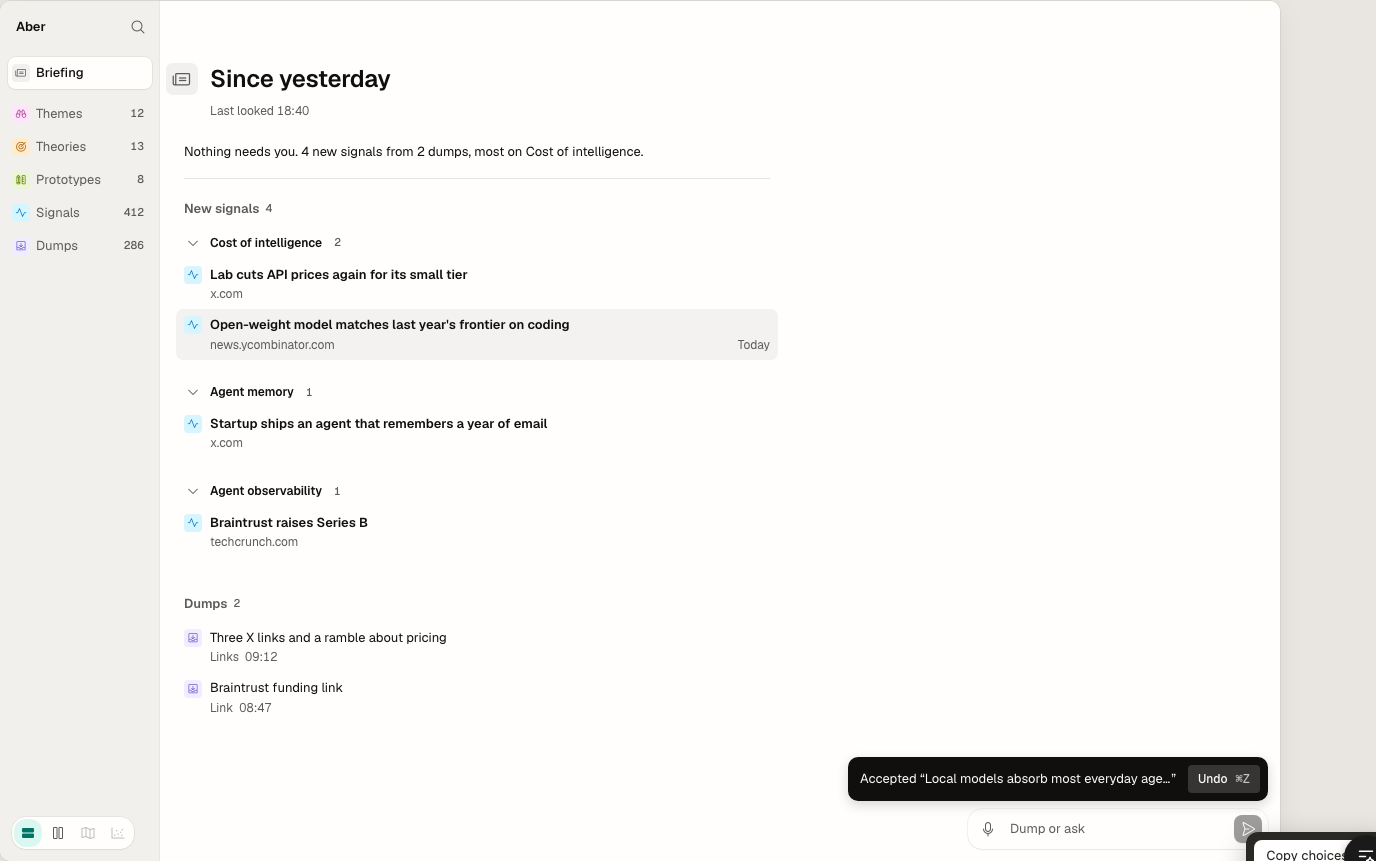
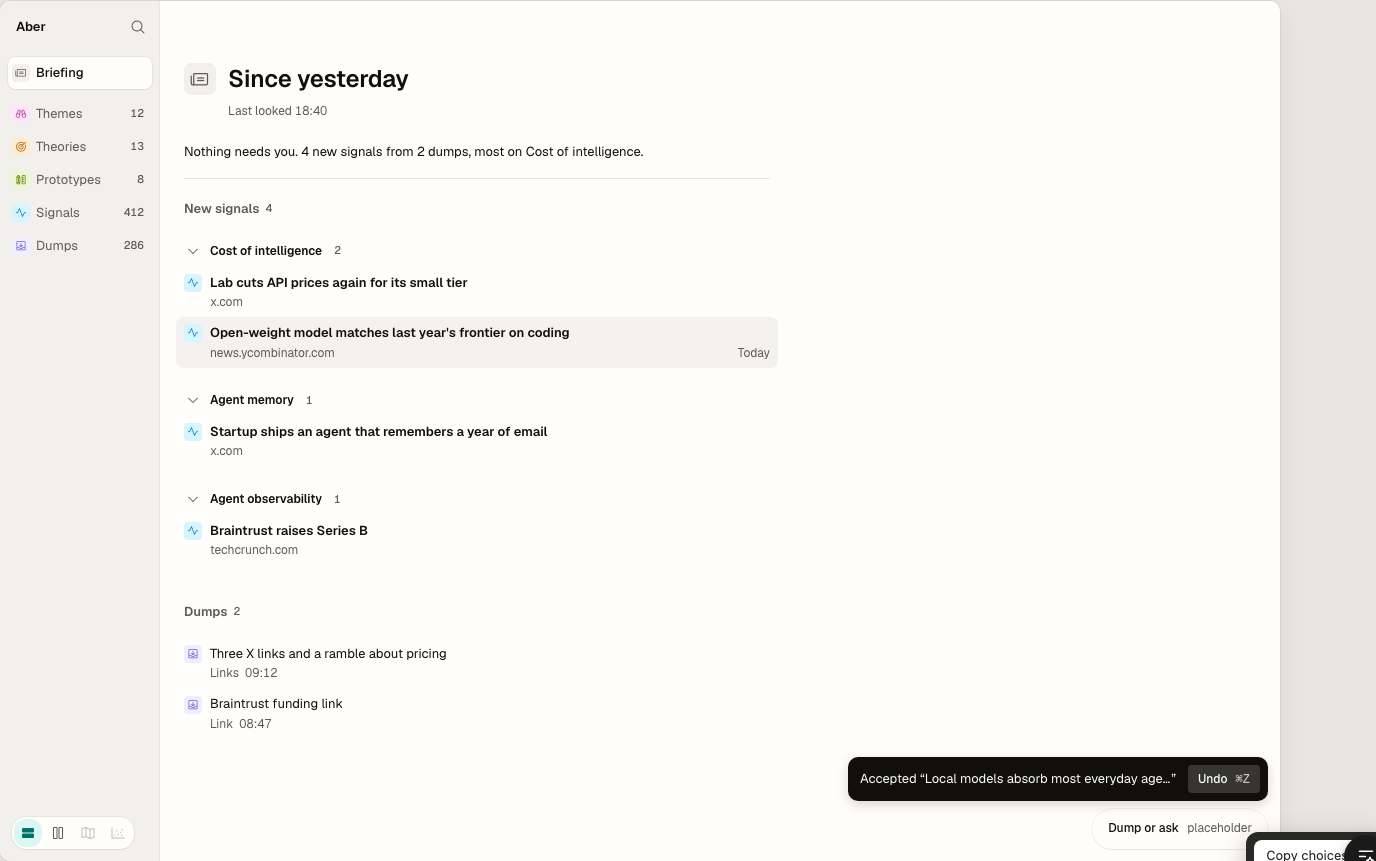
Grammar 08: fix block insets and alignment

diff --git a/design/grammar/08-briefing/briefing.css b/design/grammar/08-briefing/briefing.css
@@ -105,3 +105,30 @@
 .br8-win.narrow .ob-top > .nv-ib { margin-left: calc((var(--control) - var(--icon)) / -2); }
 .br8-win.narrow .ob-full { padding-inline: var(--inset-pane-inline) var(--inset-list-inline); }
 @media (prefers-reduced-motion: reduce) { .br8-win.narrow .br8-rail { transition: none; } }
+
+/* ═══ Block insets and alignment (coordinator round, 4 Nov) ═══
+   1. A dashed block's border sits on the tile edge, never outside it; its contents are inset 12 on every side, so its row's tile is at border + 12.
+   2. The head sits on the content: the 32 tile on the tile edge, the title 12 after it; nothing hangs into the pane inset.
+   3. Subject to its decision block 16; inside a block, a label stays 4 above the row it names, then 12 between row, consequence and buttons.
+   4. Section label: 32 above (between sections), 12 below to the first item; items in a section 16 apart. */
+.br8-doc { --blk: 12px; }
+.br8-doc > .ob-head { margin-left: 0; }
+.br8-doc .ob-block { margin-left: calc(var(--hang) * -1); padding: var(--blk); gap: 0; max-width: calc(560px + var(--hang)); }
+.br8-doc .ob-block > :not(.ob-row) { margin-left: 0; }
+.br8-doc .ob-block > .ob-row { margin-inline: calc(var(--inset-row) * -1); }
+.br8-doc .ob-block > .ob-blabel + .ob-row { margin-top: var(--gap-tight); }
+.br8-doc .ob-block > :is(.ob-row, .br8-words) + * { margin-top: var(--blk); }
+.br8-doc .ob-block > .ob-blabel + .br8-words { margin-top: var(--gap-tight); }
+.br8-doc .ob-block > .ob-why-t + .ob-decide { margin-top: var(--blk); }
+.br8-ch > .ob-attach + .ob-block { margin-top: var(--gap-group); }
+.br8-g > .ob-row + .ob-block { margin-top: var(--gap-item); }
+.br8-g > .ob-block + .ob-block { margin-top: var(--gap-item); }
+.br8-sec { gap: 0; }
+.br8-sec > .ob-sh + * { margin-top: var(--blk); }
+.br8-sec > .br8-g + .br8-g { margin-top: var(--gap-group); }
+
+/* Placeholder: capture is being rebuilt as the real chat sidebar (09). This marks where the Dump or ask pill sits; it isn't a design. */
+.br8-pill-ph { position: absolute; z-index: var(--z-chrome); right: var(--inset-float); bottom: var(--inset-float); display: flex; align-items: center; gap: var(--gap-item); height: var(--composer-h); padding: 0 var(--gap-group);
+  border-radius: 999px; background: var(--surface); box-shadow: var(--sh-float); color: var(--ink-2); font-size: var(--fs-label); white-space: nowrap; }
+.br8-pill-ph b { font-weight: 500; color: var(--ink); }
+.br8-win.narrow .br8-pill-ph { left: var(--inset-float); justify-content: center; }

diff --git a/design/grammar/08-briefing/briefing.js b/design/grammar/08-briefing/briefing.js
@@ -152,8 +152,8 @@
       <div class="nv-brand"><span>Aber</span>${ib("magnifying-glass", "Find", "", "⌘K")}</div>
       <nav class="nv-types" aria-label="Types"><button type="button" class="nv-type ob-brief" data-home aria-current="true"><span class="gw">${tile("briefing", ICON.briefing)}</span><span class="nm">Briefing</span></button>${Object.keys(NAMES).map(t => `<button type="button" class="nv-type" data-go="${t}" aria-current="false"><span class="gw">${tile(t, ICON[t])}</span><span class="nm">${NAMES[t]}</span><span class="nv-n">${TOTAL[t] ?? A.all(t).filter(o => !o.retired).length}</span></button>`).join("")}</nav>
       <div class="nv-switch" role="group" aria-label="Views">${VIEWS.map(([v, i, l, k]) => `<button type="button" data-view="${v}" aria-pressed="${v === "default"}" aria-label="${l}" data-tip="${l}" data-key="${k}"${v === "atlas" || v === "timeline" ? ' aria-disabled="true"' : ""}><i class="ph${v === "default" ? "-fill" : ""} ph-${i}" aria-hidden="true"></i></button>`).join("")}</div></aside>`;
-  const composer = `<form class="ctl-composer br8-composer" aria-label="Dump or ask" onsubmit="return false"><button type="button" class="ctl-icon" aria-label="Voice dump" data-tip="Voice dump" data-key="⌘⇧J"><i class="ph ph-microphone" aria-hidden="true"></i></button>
-      <textarea rows="1" placeholder="Dump or ask" aria-label="Dump or ask"></textarea><button type="button" class="ctl-icon primary" aria-disabled="true" aria-label="Send" data-tip="Send" data-key="⏎"><i class="ph ph-paper-plane-right" aria-hidden="true"></i></button></form>`;
+  // Placeholder for the Dump or ask pill: capture is being rebuilt as the chat sidebar in 09, so nothing here is designed
+  const composer = `<div class="br8-pill-ph" role="note" aria-label="Placeholder for the Dump or ask pill"><b>Dump or ask</b><span>placeholder</span></div>`;
   const frame = (st, main) => `<div class="nv ctl ob-win br8-win${st.narrow ? " narrow" : ""}" data-v="A" data-fresh="weight" data-align="c" data-challenge="c" style="${st.h ? `height:${st.h}px` : ""}">
       ${rail(st)}${st.narrow && st.railOpen ? `<div class="br8-scrim" data-rail-close></div>` : ""}<main class="nv-main"><div class="nv-scroller">${main}</div></main>${composer}</div>`;
 
